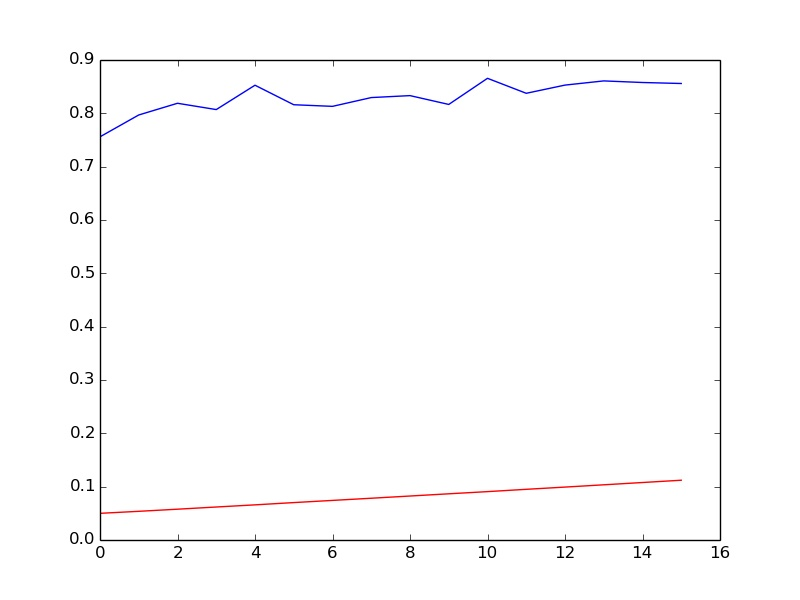
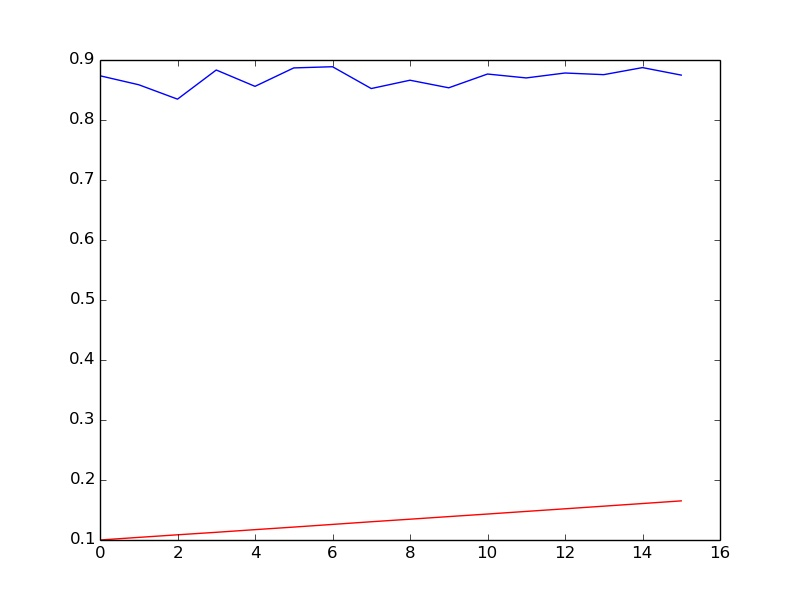
Basic LSTM test finished

diff --git a/DSTC2/LSTM.py b/DSTC2/LSTM.py
@@ -24,7 +24,7 @@ if __name__ == "__main__":
     logger = myLogger.myLogger("basic")
     logger.info("Starting basic")
     record_file = codecs.open("threshold_record.txt", 'wb+', encoding='utf8')
-    threshold = 0.05
+    threshold = 0.1
     plt.figure(1)
     # ready to plot
     thres = []
@@ -61,15 +61,15 @@ if __name__ == "__main__":
 
 
         f_measure_old = 0
-        recall, precision, f_measure = recall_precision_F(y_test, y_pre, threshold)
+        accuracy, recall, precision, f_measure = recall_precision_F(y_test, y_pre, threshold)
         f_m.append(f_measure)
         thres.append(threshold)
         record_file.write('threshold: {0}'.format(threshold))
         threshold += (f_measure - f_measure_old) / 200
 
 
-        print("[recall: {0},\tprecision: {1},\tf_measure: {2}, threshold: {3}]".format(recall, precision, f_measure, threshold))
-        record_file.write("[recall: {0},\tprecision: {1},\tf_measure: {2}]\n\n".format(recall, precision, f_measure))
+        print("[accuracy: {4}, recall: {0},\tprecision: {1},\tf_measure: {2}, threshold: {3}]".format(recall, precision, f_measure, threshold, accuracy))
+        record_file.write("[accuracy: {3}, recall: {0},\tprecision: {1},\tf_measure: {2}]\n\n".format(recall, precision, f_measure, accuracy))
         print "--------------------------------------------------------------"
     plt.plot(roll, f_m, 'b', roll, thres, 'r')
     plt.savefig('figure.jpg')

diff --git a/DSTC2/mixed.py b/DSTC2/mixed.py
@@ -1,0 +1,4 @@
+# -*- coding:utf-8 -*-  
+
+
+__author__ = "JOHNKYON"
